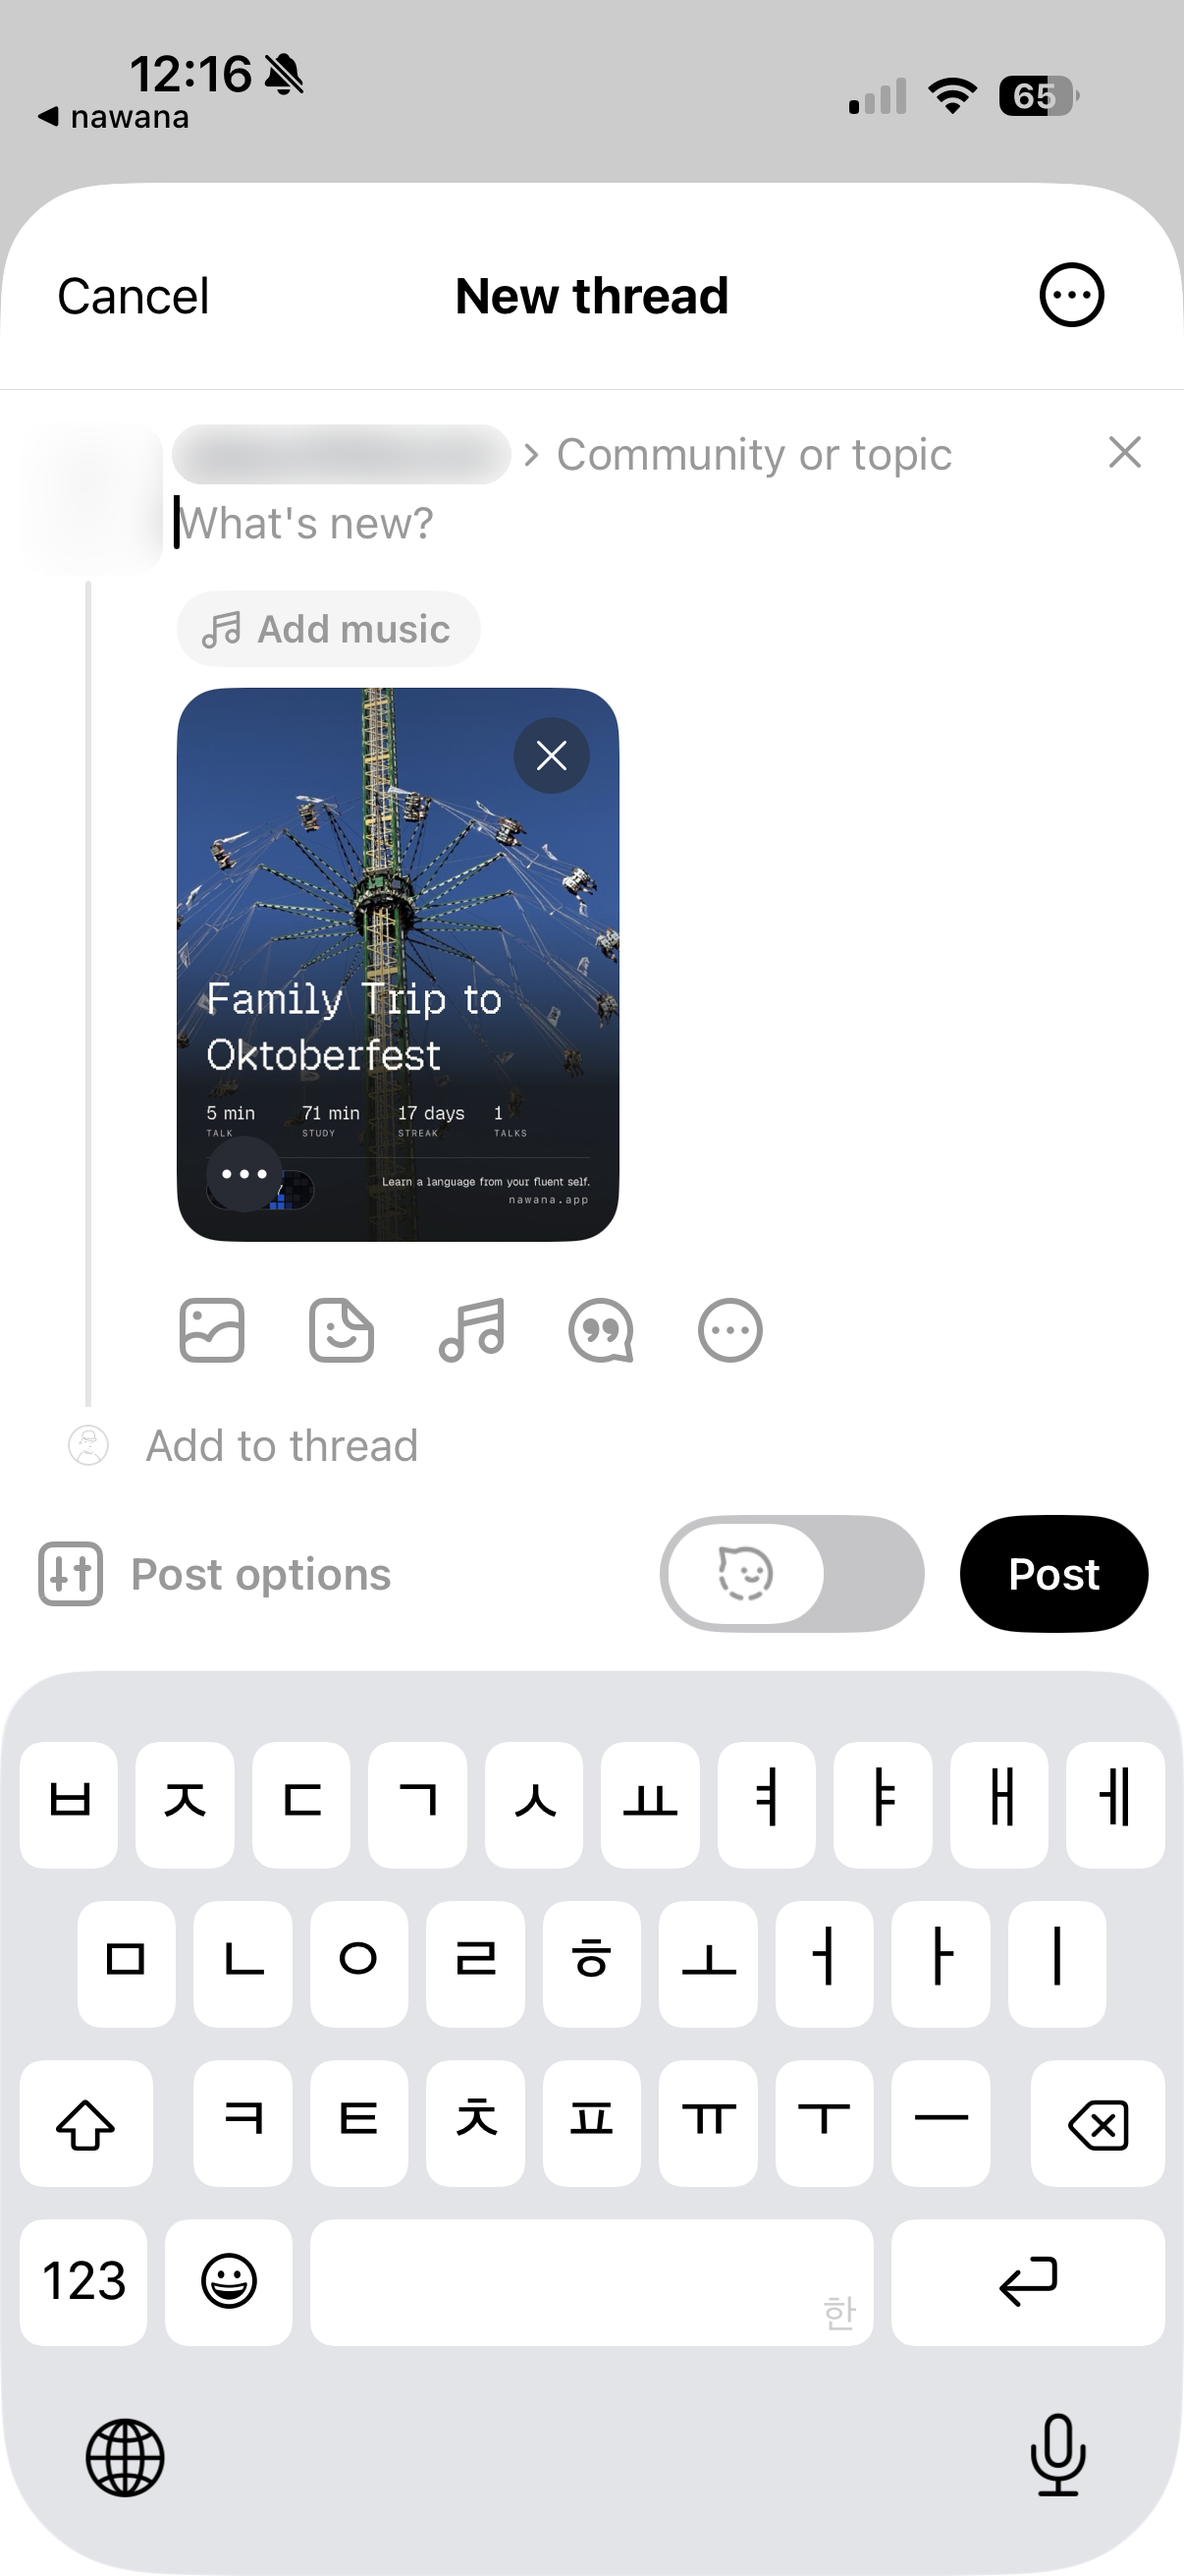
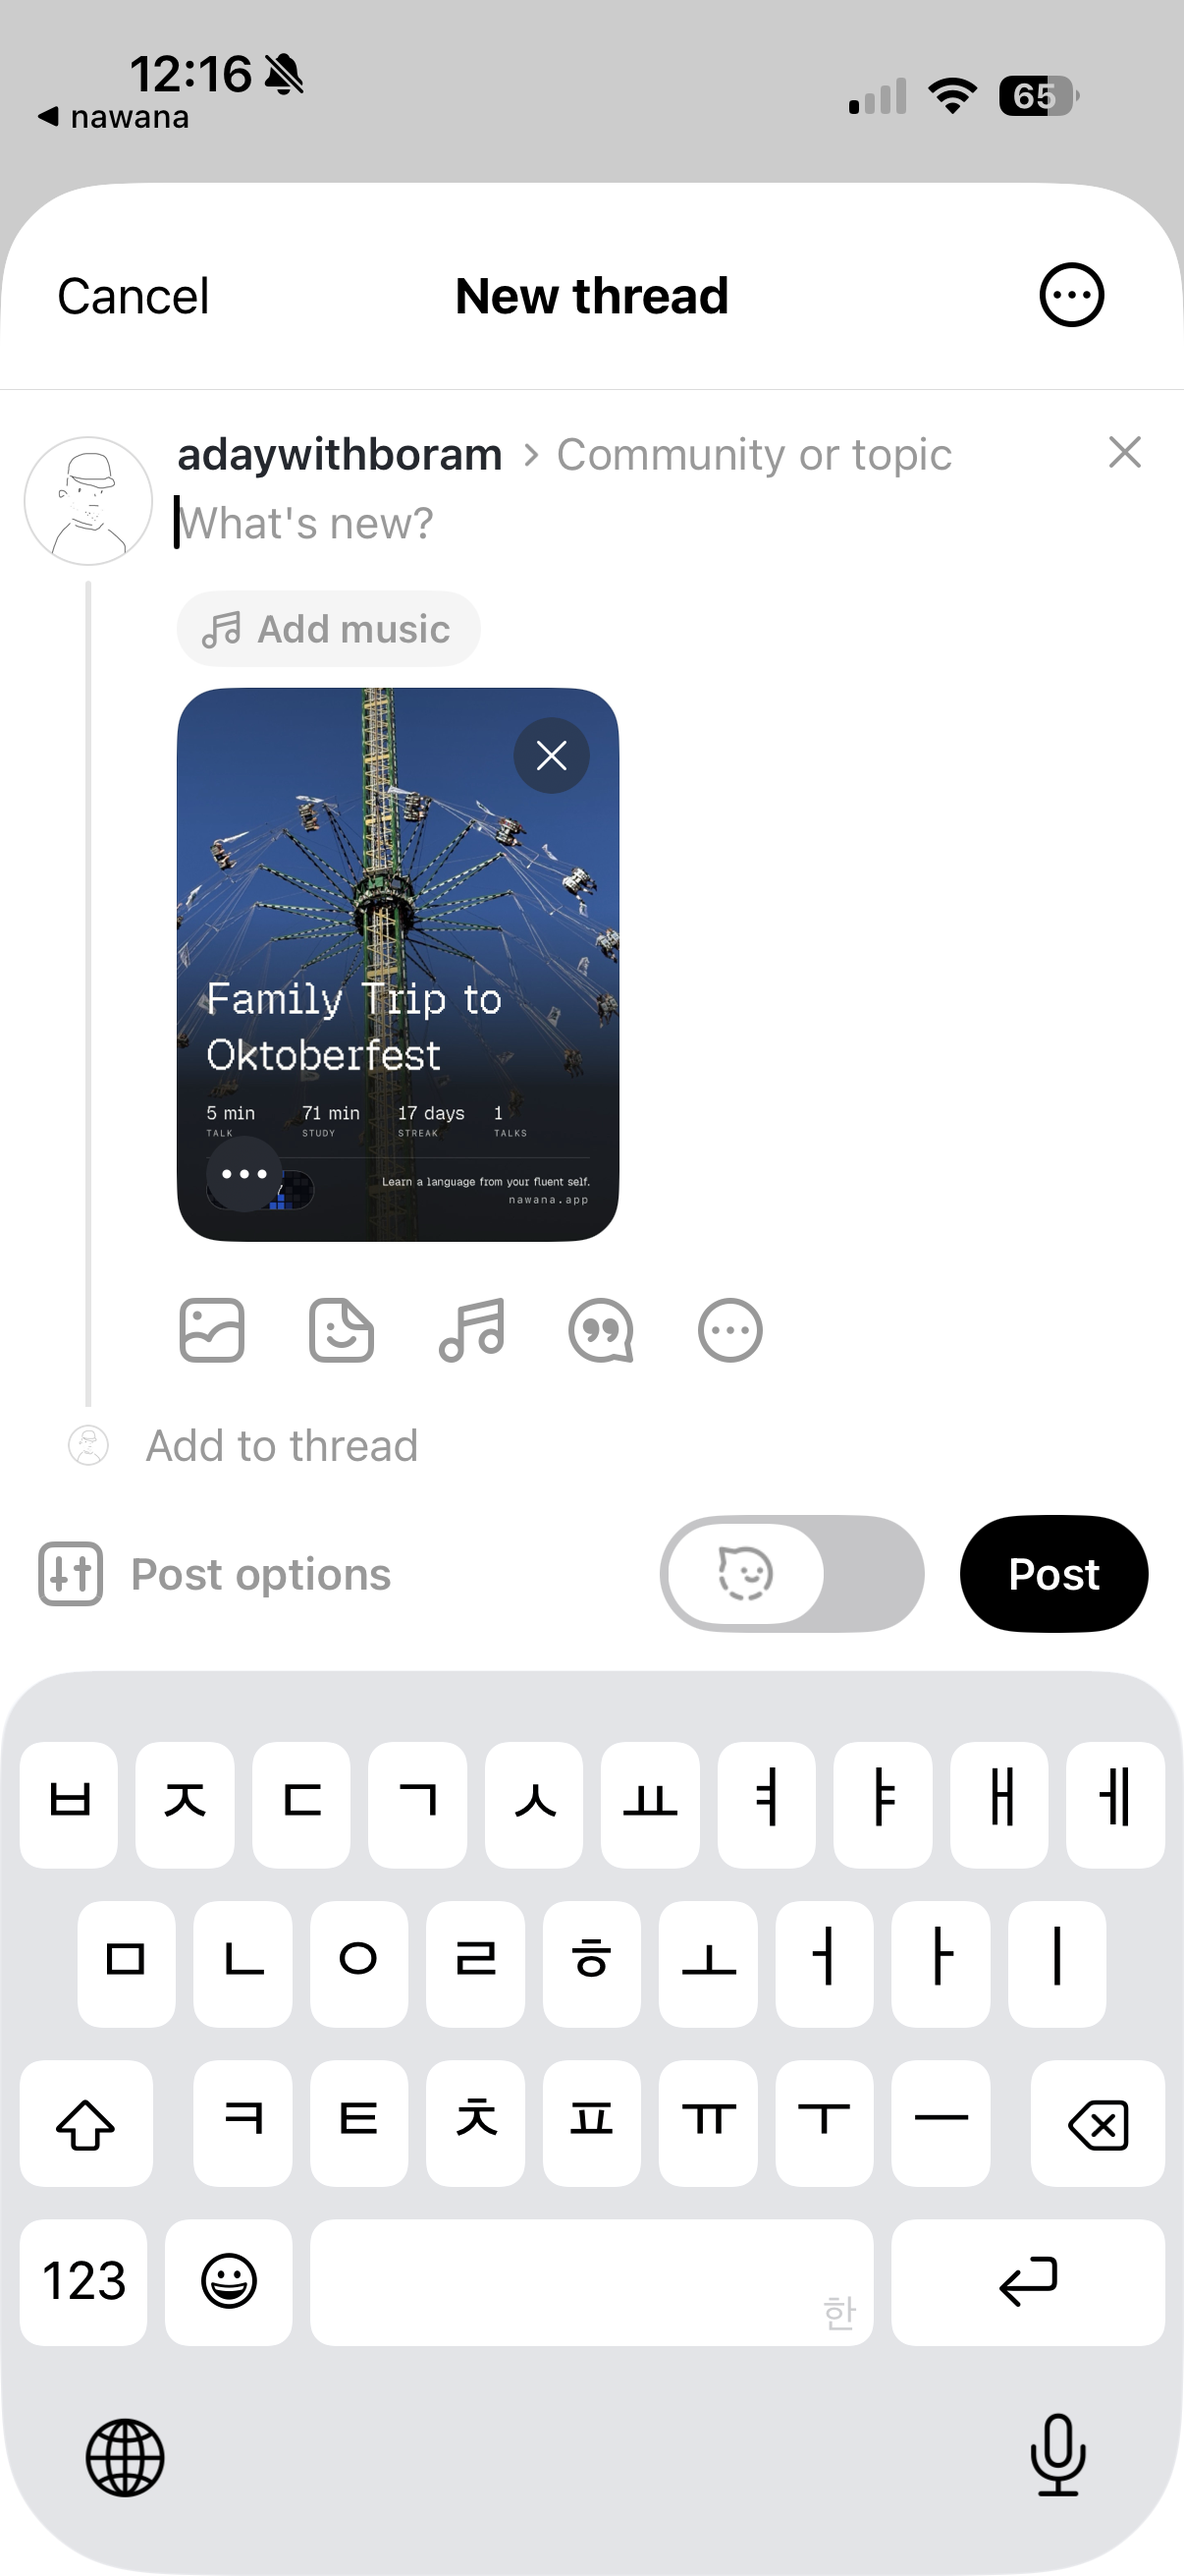
feat(web): 커뮤니티 방문 기록 — 로그인한 사람은 계정으로, 나머지는 쿠키 없이 수만
- community_visits: 로그인한 계정마다 첫 방문·마지막 방문·방문 수(30분 넘게
  떨어져야 한 번 더). 브라우저에서는 아무도 못 읽고, 운영자는
  `scripts/community.py visitors`로 본다(이메일·요금제·쓴 글 수 함께).
- PostHog: persistence 'memory'로 쿠키도 브라우저 저장도 없이 페이지뷰와
  유입 경로만. 로그인하면 앱과 같은 대문자 계정 id로 identify해서 앱 기록과
  한 사람으로 묶인다. 이벤트는 뷰어 열기(편·장), 메시지, 좋아요, 로그인 시작.
- 오늘의 카드 편 스레드 장은 원본으로(창업자 본인 계정, 흐림 해제).

Android: n/a

Changed region(s): [[0.1534, 0.1545, 0.4295, 0.1854]]

diff --git a/web/community.html b/web/community.html
@@ -228,6 +228,13 @@ footer a{color:var(--faint)}
 }
 @media (prefers-reduced-motion:reduce){*{transition:none!important;scroll-behavior:auto!important}}
 </style>
+<script>
+  !function(t,e){var o,n,p,r;e.__SV||(window.posthog=e,e._i=[],e.init=function(i,s,a){function g(t,e){var o=e.split(".");2==o.length&&(t=t[o[0]],e=o[1]),t[e]=function(){t.push([e].concat(Array.prototype.slice.call(arguments,0)))}}(p=t.createElement("script")).type="text/javascript",p.crossOrigin="anonymous",p.async=!0,p.src=s.api_host.replace(".i.posthog.com","-assets.i.posthog.com")+"/static/array.js",(r=t.getElementsByTagName("script")[0]).parentNode.insertBefore(p,r);var u=e;for(void 0!==a?u=e[a]=[]:a="posthog",u.people=u.people||[],u.toString=function(t){var e="posthog";return"posthog"!==a&&(e+="."+a),t||(e+=" (stub)"),e},u.people.toString=function(){return u.toString(1)+".people (stub)"},o="init capture register register_once register_for_session unregister unregister_for_session getFeatureFlag getFeatureFlagPayload isFeatureEnabled reloadFeatureFlags updateEarlyAccessFeatureEnrollment getEarlyAccessFeatures on onFeatureFlags onSessionId getSurveys getActiveMatchingSurveys renderSurvey canRenderSurvey identify setPersonProperties group resetGroups setPersonPropertiesForFlags resetPersonPropertiesForFlags setGroupPropertiesForFlags resetGroupPropertiesForFlags reset get_distinct_id getGroups get_session_id get_session_replay_url alias set_config startSessionRecording stopSessionRecording captureException loadToolbar get_property getSessionProperty createPersonProfile opt_in_capturing opt_out_capturing has_opted_in_capturing has_opted_out_capturing clear_opt_in_out_capturing debug getPageViewId".split(" "),n=0;n<o.length;n++)g(u,o[n]);e._i.push([i,s,a])},e.__SV=1)}(document,window.posthog||[]);
+  // No cookie and nothing stored in the browser: every page load is a fresh
+  // anonymous visitor, so no consent banner is needed. A signed-in learner is
+  // identified by their account (same upper-case id the app uses).
+  posthog.init('phc_QFR0wEkAigOahZAlzW9wsYzAUGQEyuurF7PueVdsDoA', {api_host:'https://eu.i.posthog.com', person_profiles:'identified_only', defaults:'2025-05-24', persistence:'memory', autocapture:false, disable_session_recording:true});
+</script>
 </head>
 <body>
 <header class="top">
@@ -470,6 +477,7 @@ function openViewer(id, start = 0){
   const first = flat.findIndex(x => x.e.id === id); if (first < 0) return;
   const idx = first + Math.min(start, flat[first].e.slides.length - 1);
   lastFocus = document.activeElement; openedEp = id; vOpen = true;
+  track("community_viewer_open", { episode: id, slide: start + 1 });
   $("#track").innerHTML = flat.map((x, k) =>
     `<img src="${esc(x.src)}" alt="${esc(x.e[lang].title)} ${x.si + 1}/${x.e.slides.length}" ${Math.abs(k - idx) > 2 ? 'loading="lazy"' : ""}>`).join("");
   $("#viewer").hidden = false; document.body.style.overflow = "hidden";
@@ -688,6 +696,7 @@ $("#msgs").addEventListener("click", async e => {
     const set = likes.get(id) || new Set(); likes.set(id, set);
     const had = set.has(me);
     had ? set.delete(me) : set.add(me); renderMessages();          // optimistic
+    if (!had) track("community_like");
     const q = had
       ? sb.from("community_reactions").delete().eq("message_id", id).eq("user_id", me)
       : sb.from("community_reactions").insert({ message_id: id, user_id: me });
@@ -731,6 +740,7 @@ function renderCompose(){
 $("#compose").addEventListener("click", async e => {
   const o = e.target.closest("[data-oauth]");
   if (o) {
+    track("community_signin_start", { provider: o.dataset.oauth });
     const { error } = await sb.auth.signInWithOAuth({ provider: o.dataset.oauth, options: { redirectTo: location.origin + location.pathname } });
     if (error) { sendError = t("e_signin"); renderCompose(); }
     return;
@@ -763,6 +773,7 @@ $("#compose").addEventListener("submit", async e => {
     renderCompose(); $("#msgInput").value = body; $("#sendBtn").disabled = false; return;
   }
   sendError = ""; store.set("nawana-community-name", nick);
+  track("community_message_sent", { reply: !!data.parent_id });
   messages.set(data.id, data); ta.value = "";
   if (data.parent_id) openThreads.add(data.parent_id);
   replyTo = null;
@@ -822,6 +833,21 @@ async function loadLikes(){
 $("#fab").addEventListener("click", () => { document.body.classList.add("chat-open"); $("#msgs").scrollTop = $("#msgs").scrollHeight; updateUnread(); });
 $("#chatClose").addEventListener("click", () => { document.body.classList.remove("chat-open"); updateUnread(); });
 
+/* ---------- analytics ---------- */
+const track = (ev, props) => { try { window.posthog?.capture(ev, props); } catch {} };
+let seenUser = null;
+function onIdentity(){
+  const u = session && !session.user?.is_anonymous ? session.user : null;
+  if (u && u.id !== seenUser) {
+    seenUser = u.id;
+    try { window.posthog?.identify(u.id.toUpperCase()); } catch {}
+    sb.rpc("community_touch_visit").then(() => {}, () => {});
+  } else if (!u && seenUser) {
+    seenUser = null;
+    try { window.posthog?.reset(); } catch {}
+  }
+}
+
 /* ---------- boot ---------- */
 applyLang();
 fetch("/community/series.json").then(r => r.json()).then(j => { series = j.episodes || []; renderFeatures(); }).catch(() => {});
@@ -829,7 +855,8 @@ try {
   const { createClient } = await import("https://cdn.jsdelivr.net/npm/@supabase/supabase-js@2/+esm");
   sb = createClient(SUPABASE_URL, SUPABASE_ANON, { auth: { persistSession: true, detectSessionInUrl: true } });
   ({ data: { session } } = await sb.auth.getSession());
-  sb.auth.onAuthStateChange((_e, s) => { session = s; sendError = ""; renderCompose(); renderMessages(); refreshStaff(); trackPresence(); });
+  sb.auth.onAuthStateChange((_e, s) => { session = s; sendError = ""; renderCompose(); renderMessages(); refreshStaff(); trackPresence(); onIdentity(); });
+  onIdentity();
   renderCompose();
   const { data: n } = await sb.from("community_news").select("id,published_at,title_ko,title_en,body_ko,body_en,link_url").order("published_at", { ascending: false }).limit(20);
   news = n || []; renderNews();

diff --git a/scripts/community.py b/scripts/community.py
@@ -13,6 +13,7 @@ the Management API — the same path scripts/apply-migration.sh uses.
     python3 scripts/community.py chat [--all]           # recent messages (with --all: hidden too)
     python3 scripts/community.py hide <message id>      # or unhide
     python3 scripts/community.py staff-add <user uuid or email> [--label nawana]
+    python3 scripts/community.py visitors [--limit 50]  # signed-in visitors, newest first
 
 A news post is a DRAFT until --publish / news-publish: a page reload shows a
 published post at once, no redeploy.
@@ -67,6 +68,7 @@ def main():
         sub.add_parser(c).add_argument("id")
     c = sub.add_parser("chat"); c.add_argument("--all", action="store_true"); c.add_argument("--limit", type=int, default=30)
     s = sub.add_parser("staff-add"); s.add_argument("who"); s.add_argument("--label", default="nawana")
+    v = sub.add_parser("visitors"); v.add_argument("--limit", type=int, default=50)
     x = ap.parse_args()
 
     if x.cmd == "news-list":
@@ -93,6 +95,15 @@ def main():
     elif x.cmd in ("hide", "unhide"):
         r = sql(f"update community_messages set hidden = {str(x.cmd == 'hide').lower()} where id = {int(x.id)} returning id")
         print(("hidden #" if x.cmd == "hide" else "restored #") + (str(r[0]["id"]) if r else "— no such message"))
+    elif x.cmd == "visitors":
+        rows = sql(f"""select v.user_id, u.email, v.visits, v.first_seen, v.last_seen,
+                             (select count(*) from community_messages m where m.user_id = v.user_id) msgs,
+                             (select s.plan_id from user_subscriptions s where s.user_id = v.user_id limit 1) plan
+                        from community_visits v join auth.users u on u.id = v.user_id
+                       order by v.last_seen desc limit {int(x.limit)}""")
+        print(f"{len(rows)} signed-in visitors")
+        for r in rows:
+            print(f"{r['last_seen'][:16]}  visits {r['visits']:>3}  msgs {r['msgs']:>3}  {r['plan'] or '-':<14} {r['email'] or r['user_id']}")
     elif x.cmd == "staff-add":
         who = x.who
         cond = f"id = {lit(who)}::uuid" if len(who) == 36 and who.count("-") == 4 else f"lower(email) = lower({lit(who)})"
